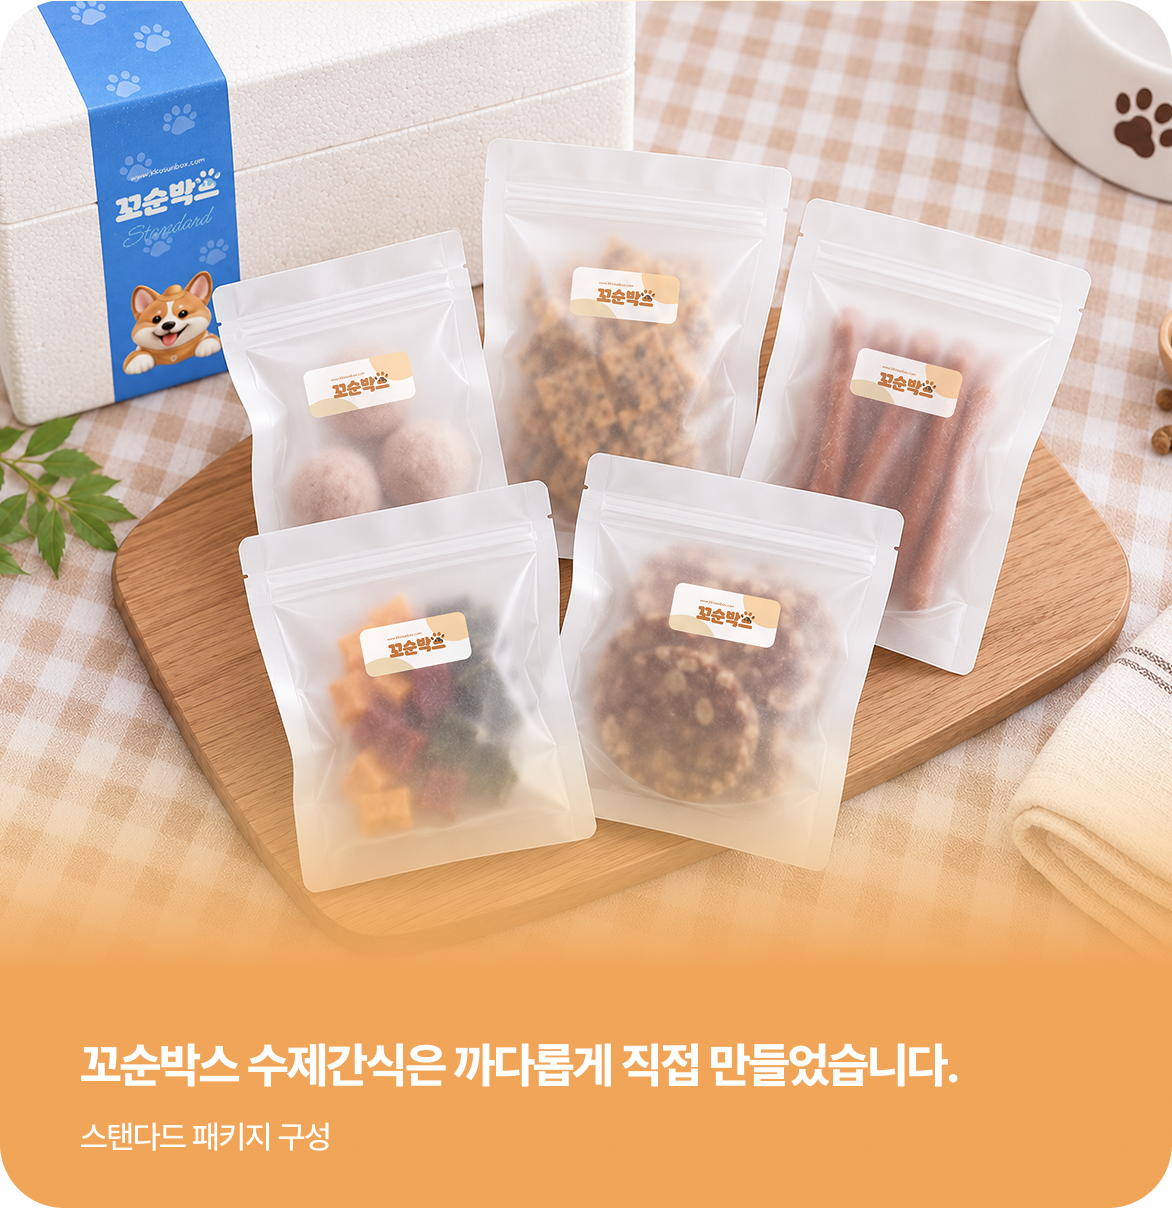
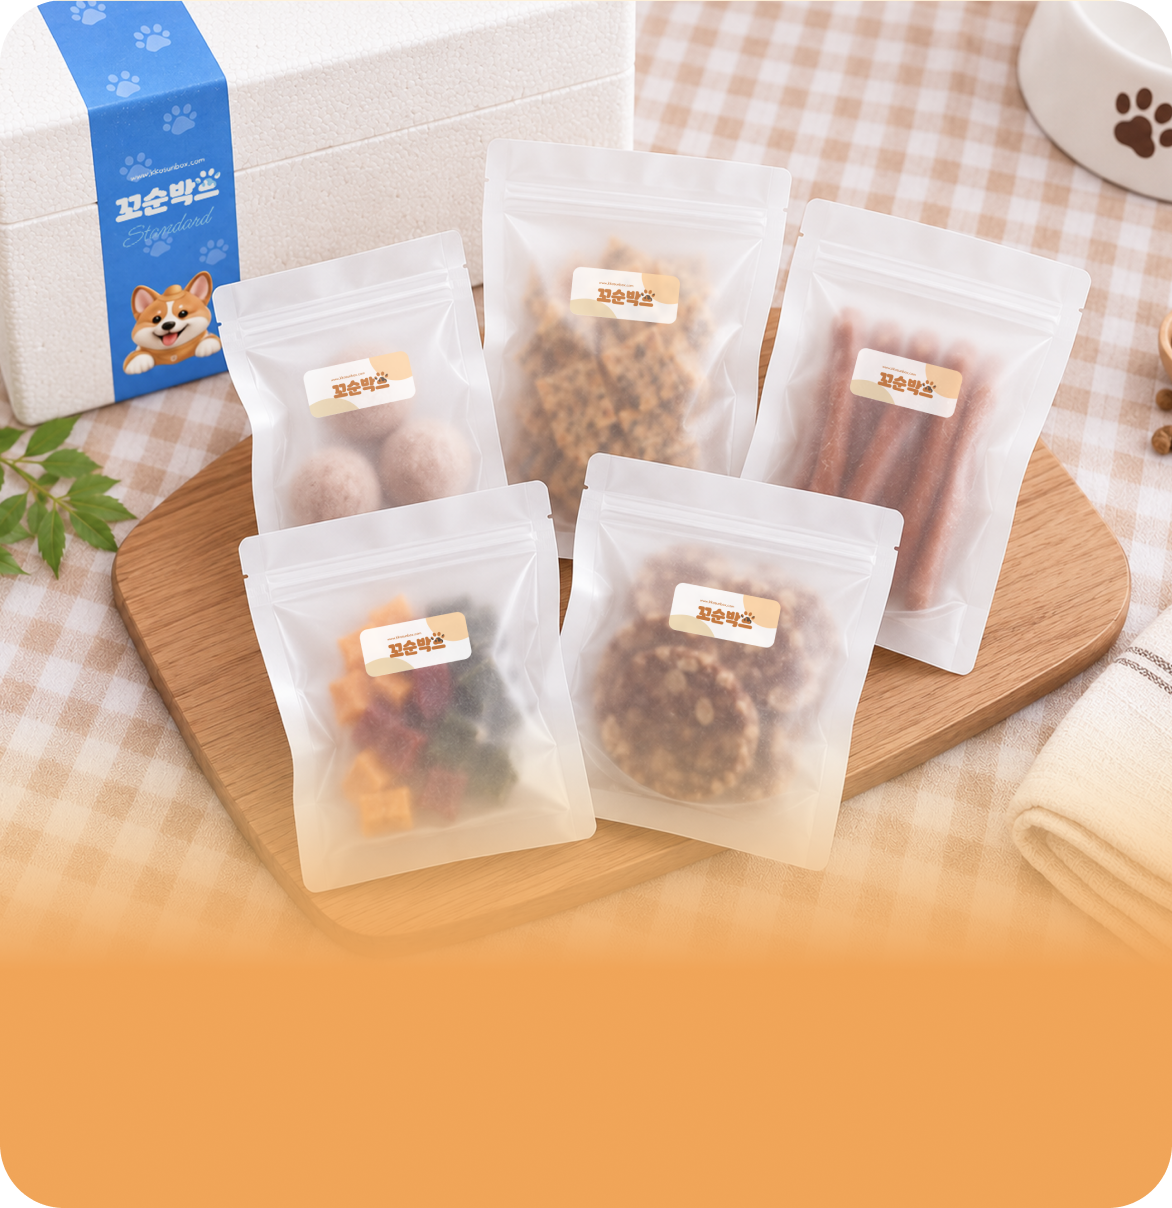
fix: 메인 브랜드 카드 이미지와 문구를 분리
문구가 합성된 이미지를 새 패키지 사진으로 교체하고 카드 하단 문구를 반응형 HTML 텍스트로 배치한다.

Codex-Session: 01a0e5c7-11c7-7f00-a4d8-c1e31b4de3d8

Changed region(s): [[0.0614, 0.8576, 0.8294, 0.9495]]

diff --git a/widgets/home/redesign/ui/HomeRedesign.module.css b/widgets/home/redesign/ui/HomeRedesign.module.css
@@ -10,7 +10,11 @@
 .storyGrid { display: grid; grid-template-columns: minmax(0, 542fr) minmax(0, 586fr); gap: 112px; align-items: center; }
 .storyDescription { margin-top: 30px; font-size: 16px; line-height: 28px; color: black; }
 .storyButton { margin-top: 60px; color: var(--color-purchase-banner-bg); border-color: var(--color-purchase-banner-bg); }
+.storyVisual { position: relative; width: 100%; overflow: hidden; border-radius: 32px; }
 .storyImage { width: 100%; height: auto; border-radius: 32px; }
+.storyCaption { position: absolute; inset-inline: 40px; bottom: 26px; display: flex; flex-direction: column; color: white; }
+.storyCaption strong { font-size: 24px; line-height: 32px; font-weight: 800; }
+.storyCaption span { margin-top: 8px; font-size: 16px; line-height: 24px; font-weight: 500; }
 @media (min-width: 1288px) {
   .storyGrid { grid-template-columns: minmax(0, 1fr) 586px; gap: 40px; }
   .storyDescription { white-space: nowrap; }
@@ -149,7 +153,7 @@
   /* About의 문장 단위 줄바꿈과 기존 24px 컨테이너 여백을 유지한다. */
   .home { word-break: keep-all; overflow-wrap: anywhere; }
   .storyGrid { grid-template-columns: 1fr; gap: 40px; }
-  .storyImage { max-width: 586px; justify-self: center; }
+  .storyVisual { max-width: 586px; justify-self: center; }
   .story, .steps, .reviews, .faq { padding-block: 64px; }
   .stepsGrid { grid-template-columns: 1fr; gap: 40px; }
   .stepsContent { padding-top: 0; }
@@ -226,7 +230,10 @@
   .storyDescription br { display: none; }
   .story .heading br, .stepsDescription br { display: none; }
   .storyButton { margin-top: 32px; }
-  .storyImage { border-radius: 24px; }
+  .storyVisual, .storyImage { border-radius: 24px; }
+  .storyCaption { inset-inline: 24px; bottom: 20px; }
+  .storyCaption strong { font-size: 20px; line-height: 28px; }
+  .storyCaption span { margin-top: 4px; font-size: 14px; line-height: 20px; }
   .stepsDescription { font-size: 16px; line-height: 26px; }
   .stepCards { grid-template-columns: repeat(2, minmax(0, 1fr)); gap: 16px; margin-top: 32px; }
   .reviewsIntro { grid-template-columns: 1fr; gap: 32px; }

diff --git a/widgets/home/redesign/ui/HomeRedesign.tsx b/widgets/home/redesign/ui/HomeRedesign.tsx
@@ -147,7 +147,10 @@ function BrandStorySection() {
     <div><h2 id="brand-story-title" className={styles.heading}><span>매일 먹는 간식이니까</span><br />더 꼼꼼하게 생각했습니다.</h2>
       <p className={styles.storyDescription}>꼬순박스를 만드는 우리도 같은 보호자입니다. 잘 먹는 것도 중요하지만,<br />{" "}어떤 재료로 어떻게 만들었는지도 중요하다는 걸 잘 알고 있습니다.<br /><br />그래서 맛은 물론, 원료와 영양까지 꼼꼼하게 살펴 우리 강아지에게 안심하고 줄 수 있는 간식을 만듭니다.</p>
       <Link href="/about" className={`${styles.outlineButton} ${styles.storyButton}`}>꼬순박스 이야기</Link></div>
-    <Image src={brandStoryPackage} alt="꼬순박스 수제간식은 까다롭게 직접 만들었습니다. 스탠다드 패키지 구성" quality={HIGH_IMAGE_QUALITY} className={styles.storyImage} sizes="(min-width: 1288px) 586px, (min-width: 1200px) 46vw, (min-width: 768px) 586px, calc(100vw - 48px)" />
+    <figure className={styles.storyVisual}>
+      <Image src={brandStoryPackage} alt="꼬순박스 스탠다드 패키지와 수제간식 구성" quality={HIGH_IMAGE_QUALITY} className={styles.storyImage} sizes="(min-width: 1288px) 586px, (min-width: 1200px) 46vw, (min-width: 768px) 586px, calc(100vw - 48px)" />
+      <figcaption className={styles.storyCaption}><strong>꼬순박스, 먹여보면 다릅니다.</strong><span>스탠다드 패키지 구성</span></figcaption>
+    </figure>
   </div></section>;
 }
 function SubscriptionStepsSection() {
